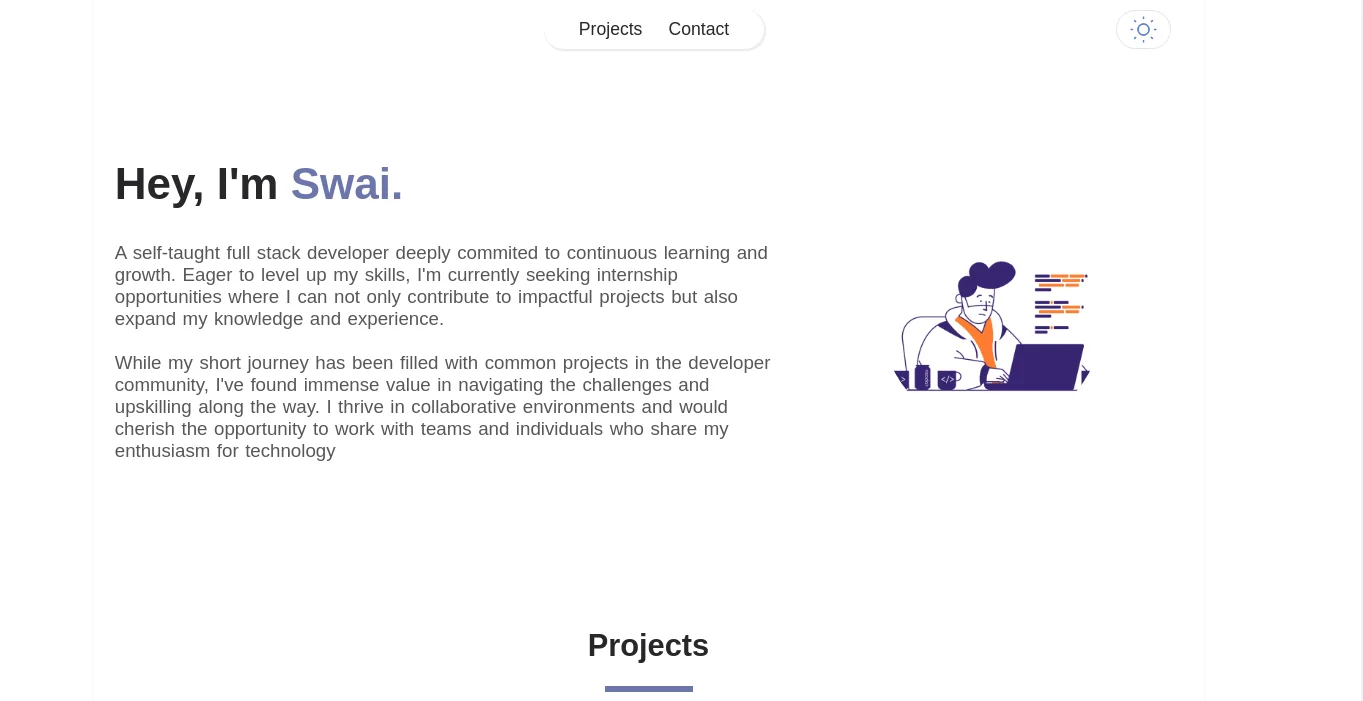
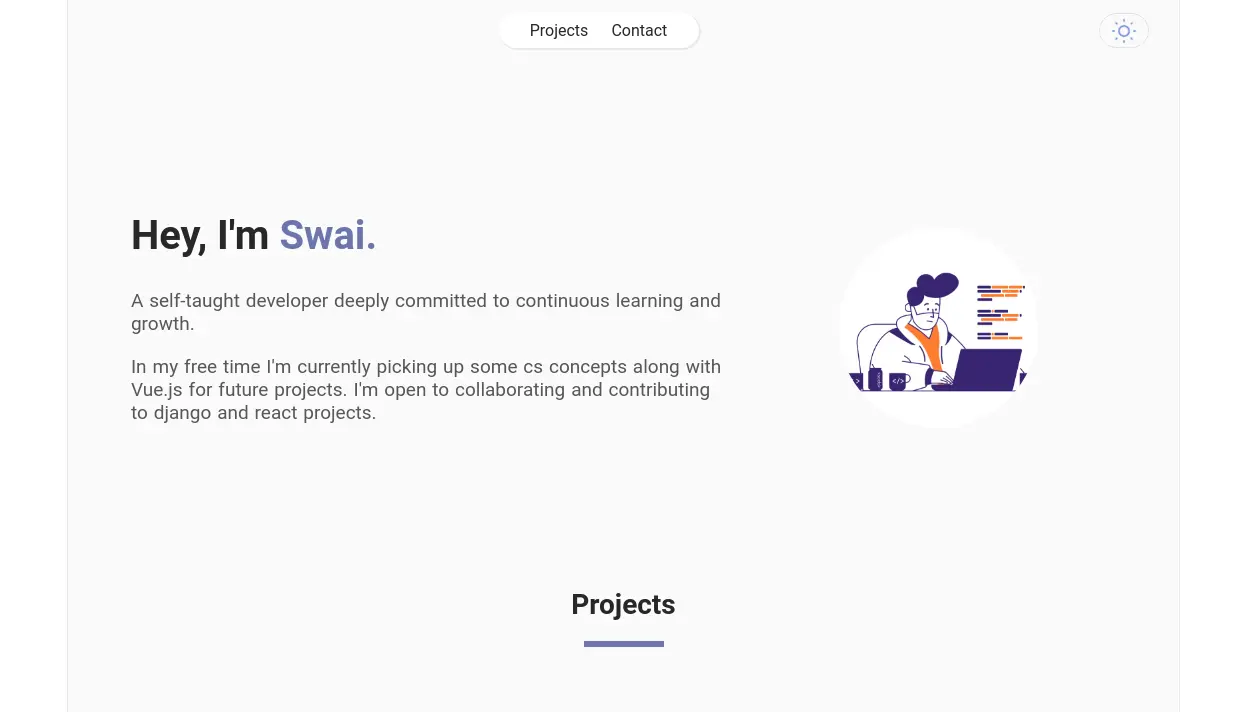
Image change and media query

diff --git a/src/components/IntroSection/Overview.module.css b/src/components/IntroSection/Overview.module.css
@@ -1,7 +1,7 @@
 @import "../../vars.css";
 
 .container {
-  margin-top: 10vh;
+  margin-top: 20vh;
   display: flex;
   flex-direction: row;
   align-items: center;
@@ -82,7 +82,7 @@
 @media screen and (max-width: 768px) {
   .container {
     flex-direction: column-reverse;
-    margin-top: vh;
+    margin-top: 10vh;
 
   }
 
